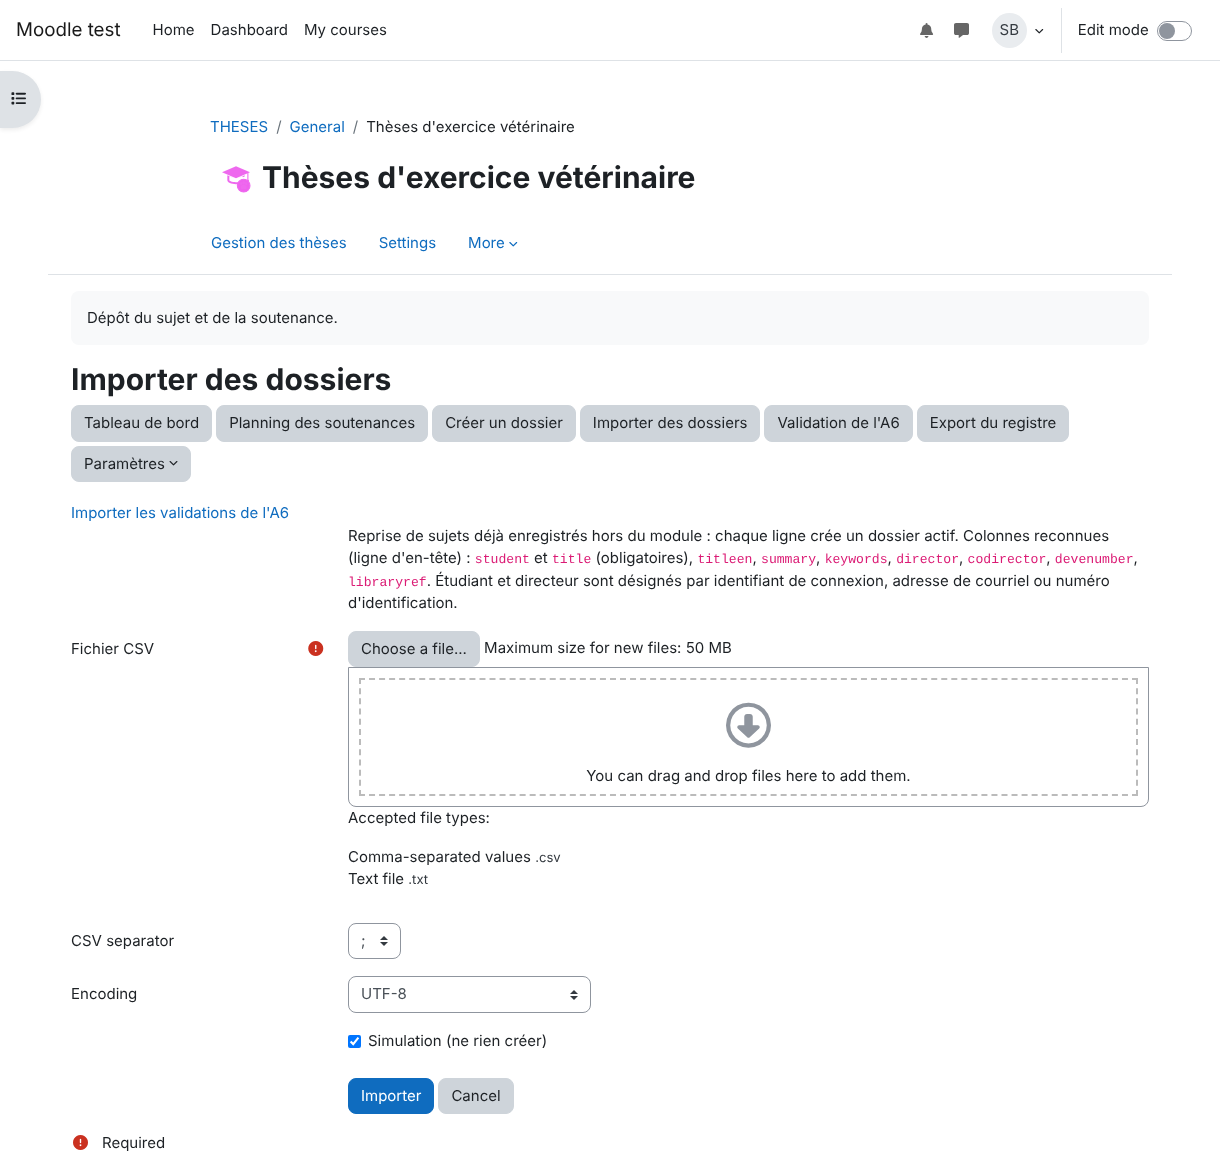
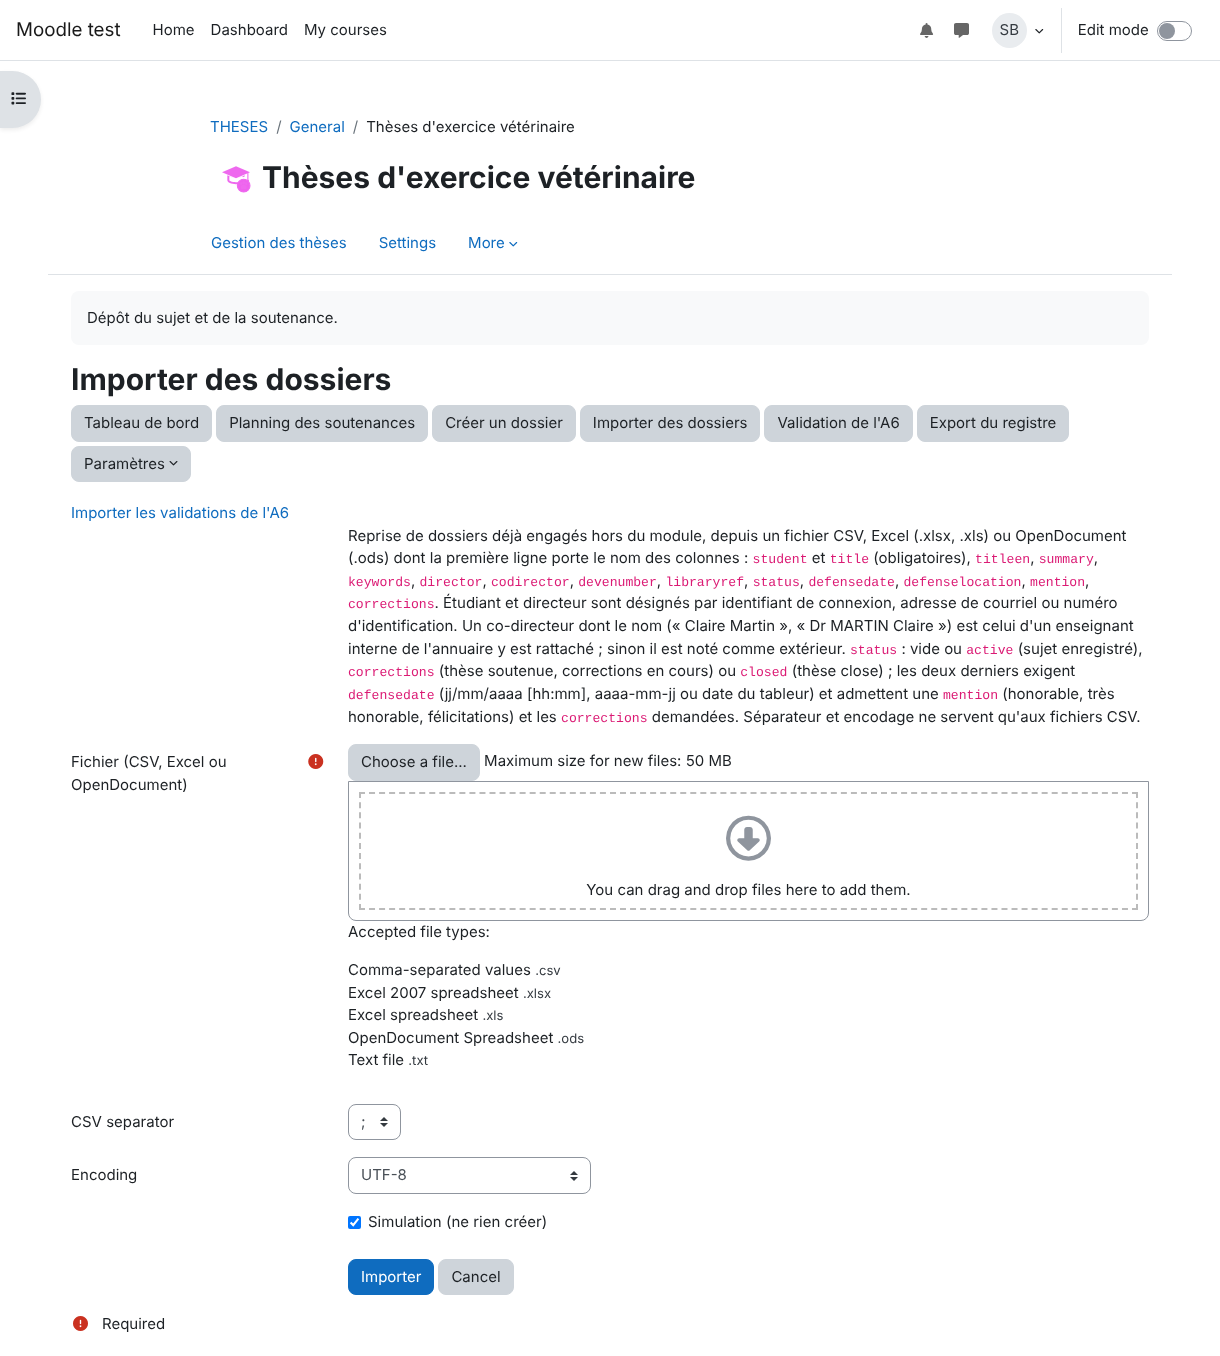
Scénarios Behat de l'import et de l'export, guide 2.16 et captures
- import_export.feature : simulation puis import à plusieurs statuts
  (fichier CSV de test), export du registre avec ses nouvelles colonnes.
- Guide 2.16 : signatures de l'université (papier, en ligne, délégataires),
  captures de l'import et des paramètres du circuit refaites, nouvelle
  capture 114 ; évolutions de la version 0.21.0.

Claude-Session: https://claude.ai/code/session_013dVdG99SM4HDmKEZKrpdgy

diff --git a/docs/guides/captures/shots.js b/docs/guides/captures/shots.js
@@ -605,6 +605,10 @@ const steps = {
     const p = await open(await as('sbonnet'), synthesis('parameters.php'));
     await upto(p, '24_parametres_circuit', form);
   },
+  async '114_signatures_universite'() {
+    const p = await open(await as('sbonnet'), synthesis('parameters.php'));
+    await region(p, '114_signatures_universite', fieldset("Signatures de l'université"));
+  },
   async '44_modele_edition'() {
     const p = await open(await as('sbonnet'), synthesis('doctemplates.php', { type: 'subject' }));
     await upto(p, '44_modele_edition', form);

diff --git a/docs/guides/guide-these.tex b/docs/guides/guide-these.tex
@@ -4,9 +4,9 @@
 
 % Version du guide : à mettre à jour à chaque modification, avec une ligne dans l'historique.
 \newcommand{\titreguide}{Guide de la gestion des thèses}
-\newcommand{\versionguide}{2.15}
+\newcommand{\versionguide}{2.16}
 \newcommand{\dateguide}{28 octobre 2026}
-\newcommand{\versionthese}{0.20.1}
+\newcommand{\versionthese}{0.21.0}
 
 \usepackage{guide-commun}
 \usepackage{tikz}
@@ -134,6 +134,10 @@ OpenDocument, à tous les statuts repris (actif, corrections, clôturé) avec
 soutenance et mention, co-directeur rattaché à l'annuaire ; export complété
 (A6, co-directeur, signatures manquantes, pièces pour l'université, dernier
 refus). \\
+2.16 & 29 octobre 2026 & Signatures de l'université dans les paramètres du
+circuit : tout sur papier (par défaut) ou en ligne, et délégataires internes du
+président du CCEM et de la présidence de l'université, qui signent par
+délégation depuis \bouton{Mes signatures}. Capture de l'import refaite. \\
 \bottomrule
 \end{tabularx}
 \end{center}
@@ -327,6 +331,8 @@ bibliothèque et le questionnaire sont facultatifs.
 
 \capture[0.85\linewidth]{24_parametres_circuit}{Paramètres du circuit, dans l'activité de suivi.}
 
+\capture[0.85\linewidth]{114_signatures_universite}{Signatures de l'université : tout sur papier ou en ligne, délégataires internes.}
+
 \begin{description}
   \item[Contrat type de diffusion électronique] le PDF officiel
         (ENS-INI-P308-E04), déposé tel quel. Le module le fait précéder d'une
@@ -348,8 +354,16 @@ bibliothèque et le questionnaire sont facultatifs.
   \item[Signataires] direction générale (nom et qualité, imprimés sur les
         documents ; pas d'adresse : elle ne signe pas elle-même), président du
         CCEM et présidence de l'université (nom et adresse). Avec une adresse,
-        le signataire reçoit un lien de signature ; sans adresse, la DEVE
-        recueille sa signature sur place.
+        le signataire reçoit un lien de signature (pour l'université, en mode
+        \og en ligne\fg{} seulement) ; sans adresse, la DEVE recueille sa
+        signature sur place.
+  \item[Signatures de l'université] \textbf{mode de signature} : \og tout sur
+        papier\fg{} (par défaut : pièces scellées envoyées, scans déposés au
+        retour, sans lien) ou \og en ligne\fg{} (lien de signature par
+        courriel) ; \textbf{délégataires internes} du président du CCEM et de
+        la présidence de l'université, choisis parmi les personnels inscrits :
+        s'il y en a, ils signent par délégation depuis \bouton{Mes
+        signatures}, quel que soit le mode (section~\ref{sec:universite}).
   \item[Soutenances] durée d'une soutenance, en minutes (60 par défaut), pour
         détecter les conflits de jury ; \textbf{salles de soutenance}, une par
         ligne, proposées à la saisie du lieu (dépôt de l'étudiant, validation et
@@ -1601,10 +1615,28 @@ Procès-verbal & toutes, université comprise \\
 
 \subsection{Pièces pour l'université}\label{sec:universite}
 
-La présidence de l'université et le président du CCEM signent sur papier. Dès
-qu'un document n'attend plus que leurs signatures, la page
-\bouton{Documents de soutenance} (et celle du procès-verbal) le présente dans
-\og Pièces pour l'université\fg{}.
+La présidence de l'université et le président du CCEM signent selon les
+paramètres du circuit, rubrique \og Signatures de l'université\fg{}
+(section~\ref{sec:parametres}) :
+\begin{itemize}
+  \item \textbf{par délégation}, quand des délégataires internes sont
+        désignés pour ce signataire : à la validation du dossier de
+        soutenance, la demande leur part, et l'un d'eux signe depuis
+        \bouton{Mes signatures}, comme les agents DEVE pour la direction
+        générale (\og par délégation\fg{} est imprimé sous la signature) ;
+        ils ne peuvent pas refuser de signer ;
+  \item sinon, \textbf{tout sur papier} (choix par défaut) : aucun lien ne
+        leur est envoyé, les pièces leur sont envoyées scellées et leurs scans
+        déposés au retour, comme décrit ci-dessous ;
+  \item sinon, \textbf{en ligne} : ils reçoivent un lien de signature à
+        l'adresse indiquée ; la DEVE peut toujours déposer un scan ou
+        recueillir leur signature sur place.
+\end{itemize}
+
+Dans tous les cas, leurs signatures ne sont exigées qu'au dépôt du
+procès-verbal. Sur papier, dès qu'un document n'attend plus que leurs
+signatures, la page \bouton{Documents de soutenance} (et celle du
+procès-verbal) le présente dans \og Pièces pour l'université\fg{}.
 
 \begin{procedure}{Envoyer les pièces à l'université et enregistrer leur retour}{Équipe DEVE}
 \begin{etapes}

diff --git a/CHANGES.md b/CHANGES.md
@@ -13,8 +13,30 @@ de version recalés sur la date. Les numéros entre parenthèses des sections de
 développement ne correspondent à aucune version installable ; 0.11.2 n'a jamais
 été étiquetée.
 
-## mod_these 0.20.1 (2026102805) — liste des dossiers bloqués, captures du guide refaites, scénarios Behat, import et export complétés
+## mod_these 0.21.0 (2026102806) — signatures de l'université au choix (papier, en ligne, délégataires internes), liste des dossiers bloqués, captures du guide refaites, scénarios Behat, import et export complétés
 
+Les modifications prévues pour 0.20.1, jamais publiée, sont reprises dans cette version.
+
+- Paramètres du circuit, rubrique « Signatures de l'université » :
+  - **mode de signature** du président du CCEM et de la présidence de
+    l'université : tout sur papier (par défaut, comme depuis 0.20.0 : pièces
+    scellées envoyées, scans déposés au retour) ou en ligne (lien de signature
+    par courriel). Sur papier, plus aucun lien ne leur est envoyé (ni à la
+    validation, ni en relance, ni en action groupée) ;
+  - **délégataires internes** de chacun d'eux (`ccemagent`, `ucblagent`),
+    choisis parmi les personnels inscrits : s'il y en a, la demande leur part
+    à la validation du dossier de soutenance, comme aux agents DEVE pour la
+    direction générale ; l'un d'eux signe « par délégation » depuis « Mes
+    signatures », avec le compte validateur de la DEVE. Ils priment sur le mode
+    choisi et ne peuvent pas refuser de signer. Le suivi des signatures les
+    présente sur une ligne à part, avec la relance.
+  - Les pièces pour l'université (scellement, téléchargement, dépôt des scans)
+    et l'avertissement du procès-verbal ne concernent plus que les signataires
+    sur papier.
+- Scénarios Behat de l'import (simulation puis import, à plusieurs statuts) et
+  de l'export du registre (nouvelles colonnes), `import_export.feature`.
+- Guide 2.16 : signatures de l'université, capture des paramètres
+  correspondants et de l'import refaites.
 - Commande `php mod/these/cli/blocked_dossiers.php [--these=ID] [--csv]` :
   dossiers bloqués par des signatures manquantes (voir 0.20.0), à lancer après
   la mise à jour pour que la DEVE fasse signer ou dépose les scans des dossiers
